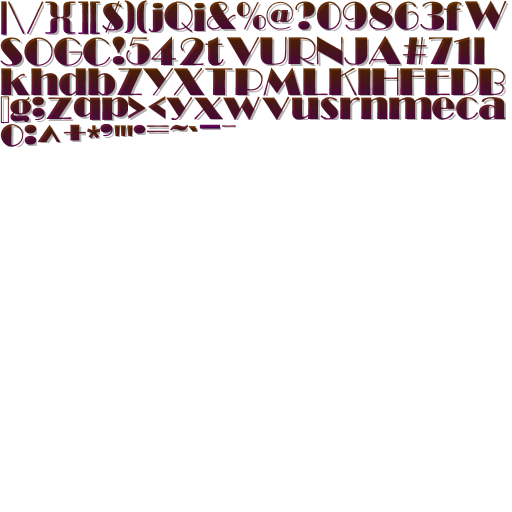
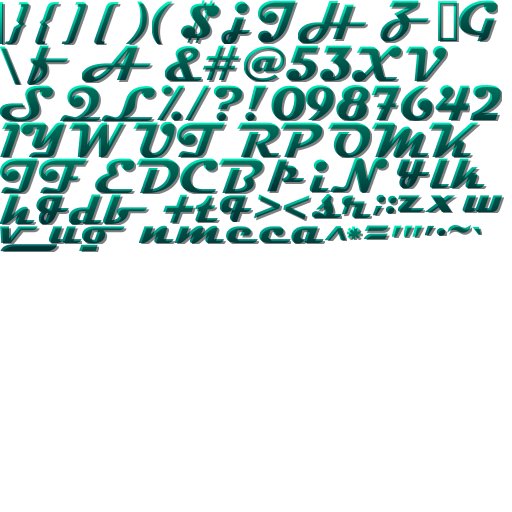
Version 0.0.2 Alpha
Updated GUI

diff --git a/src/com/github/neko250/yonunca/screens/GameScreen.java b/src/com/github/neko250/yonunca/screens/GameScreen.java
@@ -6,11 +6,11 @@ import com.badlogic.gdx.graphics.g2d.*;
 import com.badlogic.gdx.math.*;
 import com.badlogic.gdx.scenes.scene2d.*;
 import com.badlogic.gdx.scenes.scene2d.ui.*;
-import com.badlogic.gdx.scenes.scene2d.ui.Label.LabelStyle;
-import com.badlogic.gdx.scenes.scene2d.ui.TextButton.TextButtonStyle;
+import com.badlogic.gdx.scenes.scene2d.ui.Button.*;
+import com.badlogic.gdx.scenes.scene2d.ui.Label.*;
 import com.badlogic.gdx.utils.*;
 import com.github.neko250.yonunca.*;
-import com.github.neko250.yonunca.soundbanks.SoundBank;
+import com.github.neko250.yonunca.soundbanks.*;
 
 public class GameScreen implements Screen {
 	public YoNunca app;
@@ -23,8 +23,8 @@ public class GameScreen implements Screen {
 	private Stage stage;
 	private TextureAtlas atlas;
 	private BitmapFont buttonsF, titleF, subtitleF;
-	private Label title, subtitle;
-	private TextButton next, replay, back;
+	private Label title, subtitle, nextL, replayL, backL;
+	private Button next, replay, back;
 	private Skin skin;
 	private Image wall;
 	
@@ -38,7 +38,7 @@ public class GameScreen implements Screen {
 		Gdx.gl.glViewport((int) viewPort.getX(), (int) viewPort.getY(),
 				(int) viewPort.getWidth(), (int) viewPort.getHeight());
 		
-		Gdx.gl.glClearColor(0, 0, 0, 1);
+		Gdx.gl.glClearColor(0.1f, 0.1f, 0.1f, 1.0f);
 		Gdx.gl.glClear(GL10.GL_COLOR_BUFFER_BIT);
 		
 		stage.act(delta);
@@ -72,21 +72,23 @@ public class GameScreen implements Screen {
 		atlas = new TextureAtlas(Gdx.files.internal("img/textures.pack"));
 		skin = new Skin();
 		skin.addRegions(atlas);
-		titleF = new BitmapFont(Gdx.files.internal("font/broadway.fnt"), false);
-		subtitleF = new BitmapFont(Gdx.files.internal("font/font.fnt"), false);
+		titleF = new BitmapFont(Gdx.files.internal("font/title.fnt"), false);
+		subtitleF = new BitmapFont(Gdx.files.internal("font/subtitle.fnt"),
+				false);
 		subtitleF.setScale(0.5f);
 		buttonsF = new BitmapFont(Gdx.files.internal("font/buttons.fnt"), false);
 		buttonsF.setScale(0.75f);
 		Gdx.input.setInputProcessor(stage);
 		
-		TextButtonStyle butStyle = new TextButtonStyle();
-		butStyle.up = skin.getDrawable("button_up");
-		butStyle.down = skin.getDrawable("button_down");
-		butStyle.font = buttonsF;
+		ButtonStyle butStyle = new ButtonStyle();
+		butStyle.up = skin.getDrawable("but_up");
+		butStyle.down = skin.getDrawable("but_down");
 		LabelStyle titleLabStyle = new LabelStyle();
 		titleLabStyle.font = titleF;
 		LabelStyle subLabStyle = new LabelStyle();
 		subLabStyle.font = subtitleF;
+		LabelStyle butLabStyle = new LabelStyle();
+		butLabStyle.font = buttonsF;
 		
 		title = new Label(YoNunca.NAME, titleLabStyle);
 		title.setBounds(
@@ -103,9 +105,17 @@ public class GameScreen implements Screen {
 				* 6 / 8 - (subtitleF.getBounds(sub).height / 2) + 20,
 				subtitleF.getBounds(sub).width, subtitleF.getBounds(sub).height);
 		
-		next = new TextButton("Next", butStyle);
-		next.setBounds(viewPort.getWidth() / 2 - (200 / 2),
-				viewPort.getHeight() * 3 / 8 - (40 / 2), 200, 40);
+		nextL = new Label("Next", butLabStyle);
+		nextL.setBounds(viewPort.getWidth() / 2
+				- (buttonsF.getBounds("Next").width / 2) + 50,
+				viewPort.getHeight() / 2
+						- (buttonsF.getBounds("Next").height / 2) + 5,
+				buttonsF.getBounds("Next").width,
+				buttonsF.getBounds("Next").height);
+		
+		next = new Button(butStyle);
+		next.setBounds(viewPort.getWidth() / 4 - (64 / 2), viewPort.getHeight()
+				/ 2 - (64 / 2), 64, 64);
 		next.addListener(new InputListener() {
 			public boolean touchDown(InputEvent event, float x, float y,
 					int pointer, int button) {
@@ -118,9 +128,18 @@ public class GameScreen implements Screen {
 			}
 		});
 		
-		replay = new TextButton("Replay", butStyle);
-		replay.setBounds(viewPort.getWidth() / 2 - (200 / 2),
-				viewPort.getHeight() * 2 / 8 - (40 / 2), 200, 40);
+		replayL = new Label("Replay", butLabStyle);
+		replayL.setBounds(
+				viewPort.getWidth() / 2
+						- (buttonsF.getBounds("Replay").width / 2) + 50,
+				viewPort.getHeight() * 2.5f / 8
+						- (buttonsF.getBounds("Replay").height / 2) + 5,
+				buttonsF.getBounds("Replay").width,
+				buttonsF.getBounds("Replay").height);
+		
+		replay = new Button(butStyle);
+		replay.setBounds(viewPort.getWidth() / 4 - (64 / 2),
+				viewPort.getHeight() * 2.5f / 8 - (64 / 2), 64, 64);
 		replay.addListener(new InputListener() {
 			public boolean touchDown(InputEvent event, float x, float y,
 					int pointer, int button) {
@@ -133,9 +152,17 @@ public class GameScreen implements Screen {
 			}
 		});
 		
-		back = new TextButton("Back", butStyle);
-		back.setBounds(viewPort.getWidth() / 2 - (200 / 2),
-				viewPort.getHeight() * 1 / 8 - (40 / 2), 200, 40);
+		backL = new Label("Back", butLabStyle);
+		backL.setBounds(viewPort.getWidth() / 2
+				- (buttonsF.getBounds("Back").width / 2) + 50,
+				viewPort.getHeight() * 1 / 8
+						- (buttonsF.getBounds("Back").height / 2) + 5,
+				buttonsF.getBounds("Back").width,
+				buttonsF.getBounds("Back").height);
+		
+		back = new Button(butStyle);
+		back.setBounds(viewPort.getWidth() / 4 - (64 / 2), viewPort.getHeight()
+				* 1 / 8 - (64 / 2), 64, 64);
 		back.addListener(new InputListener() {
 			public boolean touchDown(InputEvent event, float x, float y,
 					int pointer, int button) {
@@ -148,15 +175,18 @@ public class GameScreen implements Screen {
 			}
 		});
 		
-		wall = new Image(skin.getDrawable("menu_back"));
+		wall = new Image(skin.getDrawable("wall"));
 		wall.setBounds(0, 0, viewPort.getWidth(), viewPort.getHeight());
 		
 		stage.addActor(wall);
 		stage.addActor(title);
 		stage.addActor(subtitle);
 		stage.addActor(next);
+		stage.addActor(nextL);
 		stage.addActor(replay);
+		stage.addActor(replayL);
 		stage.addActor(back);
+		stage.addActor(backL);
 	}
 	
 	@Override

diff --git a/src/com/github/neko250/yonunca/screens/MainMenuScreen.java b/src/com/github/neko250/yonunca/screens/MainMenuScreen.java
@@ -7,6 +7,7 @@ import com.badlogic.gdx.graphics.g2d.*;
 import com.badlogic.gdx.math.*;
 import com.badlogic.gdx.scenes.scene2d.*;
 import com.badlogic.gdx.scenes.scene2d.ui.*;
+import com.badlogic.gdx.scenes.scene2d.ui.Button.*;
 import com.badlogic.gdx.scenes.scene2d.ui.Label.*;
 import com.badlogic.gdx.scenes.scene2d.ui.TextButton.*;
 import com.badlogic.gdx.utils.*;
@@ -21,8 +22,8 @@ public class MainMenuScreen implements Screen {
 	private TextureAtlas atlas;
 	private Skin skin;
 	private BitmapFont titleF, subtitleF, buttonsF;
-	private TextButton play, quit;
-	private Label title, subtitle;
+	private Button play, quit;
+	private Label title, subtitle, playL, quitL;
 	private Image wall;
 	
 	public MainMenuScreen(YoNunca app, Rectangle viewPort) {
@@ -35,7 +36,7 @@ public class MainMenuScreen implements Screen {
 		Gdx.gl.glViewport((int) viewPort.getX(), (int) viewPort.getY(),
 				(int) viewPort.getWidth(), (int) viewPort.getHeight());
 		
-		Gdx.gl.glClearColor(0, 0, 0, 1);
+		Gdx.gl.glClearColor(0.1f, 0.1f, 0.1f, 1.0f);
 		Gdx.gl.glClear(GL10.GL_COLOR_BUFFER_BIT);
 		
 		stage.act(delta);
@@ -67,21 +68,23 @@ public class MainMenuScreen implements Screen {
 		atlas = new TextureAtlas(Gdx.files.internal("img/textures.pack"));
 		skin = new Skin();
 		skin.addRegions(atlas);
-		titleF = new BitmapFont(Gdx.files.internal("font/broadway.fnt"), false);
-		subtitleF = new BitmapFont(Gdx.files.internal("font/font.fnt"), false);
+		titleF = new BitmapFont(Gdx.files.internal("font/title.fnt"), false);
+		subtitleF = new BitmapFont(Gdx.files.internal("font/subtitle.fnt"),
+				false);
 		subtitleF.setScale(0.5f);
 		buttonsF = new BitmapFont(Gdx.files.internal("font/buttons.fnt"), false);
 		buttonsF.setScale(0.75f);
 		Gdx.input.setInputProcessor(stage);
 		
-		TextButtonStyle butStyle = new TextButtonStyle();
-		butStyle.up = skin.getDrawable("button_up");
-		butStyle.down = skin.getDrawable("button_down");
-		butStyle.font = buttonsF;
+		ButtonStyle butStyle = new TextButtonStyle();
+		butStyle.up = skin.getDrawable("but_up");
+		butStyle.down = skin.getDrawable("but_down");
 		LabelStyle titleLabStyle = new LabelStyle();
 		titleLabStyle.font = titleF;
 		LabelStyle subLabStyle = new LabelStyle();
 		subLabStyle.font = subtitleF;
+		LabelStyle butLabStyle = new LabelStyle();
+		butLabStyle.font = buttonsF;
 		
 		title = new Label(YoNunca.NAME, titleLabStyle);
 		title.setBounds(
@@ -98,9 +101,17 @@ public class MainMenuScreen implements Screen {
 				* 6 / 8 - (subtitleF.getBounds(sub).height / 2) + 20,
 				subtitleF.getBounds(sub).width, subtitleF.getBounds(sub).height);
 		
-		play = new TextButton("Start !", butStyle);
-		play.setBounds(viewPort.getWidth() / 2 - (200 / 2),
-				viewPort.getHeight() / 2 - (40 / 2) - 110, 200, 40);
+		playL = new Label("Play !", butLabStyle);
+		playL.setBounds(viewPort.getWidth() / 2
+				- (buttonsF.getBounds("Play !").width / 2) + 45,
+				viewPort.getHeight() / 2
+						- (buttonsF.getBounds("Play !").height / 2) - 45,
+				buttonsF.getBounds("Play !").width,
+				buttonsF.getBounds("Play !").height);
+		
+		play = new Button(butStyle);
+		play.setBounds(viewPort.getWidth() / 4 - (64 / 2), viewPort.getHeight()
+				/ 2 - (64 / 2) - 50, 64, 64);
 		play.addListener(new InputListener() {
 			public boolean touchDown(InputEvent event, float x, float y,
 					int pointer, int button) {
@@ -113,9 +124,17 @@ public class MainMenuScreen implements Screen {
 			}
 		});
 		
-		quit = new TextButton("Quit", butStyle);
-		quit.setBounds(viewPort.getWidth() / 2 - (200 / 2),
-				viewPort.getHeight() / 4 - (40 / 2) - 50, 200, 40);
+		quitL = new Label("Quit", butLabStyle);
+		quitL.setBounds(viewPort.getWidth() / 2
+				- (buttonsF.getBounds("Quit").width / 2) + 35,
+				viewPort.getHeight() / 4
+						- (buttonsF.getBounds("Quit").height / 2) + 5,
+				buttonsF.getBounds("Quit").width,
+				buttonsF.getBounds("Quit").height);
+		
+		quit = new Button(butStyle);
+		quit.setBounds(viewPort.getWidth() / 4 - (64 / 2), viewPort.getHeight()
+				/ 4 - (64 / 2), 64, 64);
 		quit.addListener(new InputListener() {
 			public boolean touchDown(InputEvent event, float x, float y,
 					int pointer, int button) {
@@ -128,14 +147,16 @@ public class MainMenuScreen implements Screen {
 			}
 		});
 		
-		wall = new Image(skin.getDrawable("menu_back"));
+		wall = new Image(skin.getDrawable("wall"));
 		wall.setBounds(0, 0, viewPort.getWidth(), viewPort.getHeight());
 		
 		stage.addActor(wall);
 		stage.addActor(title);
 		stage.addActor(subtitle);
 		stage.addActor(play);
+		stage.addActor(playL);
 		stage.addActor(quit);
+		stage.addActor(quitL);
 	}
 	
 	@Override

diff --git a/src/com/github/neko250/yonunca/YoNunca.java b/src/com/github/neko250/yonunca/YoNunca.java
@@ -6,7 +6,7 @@ import com.badlogic.gdx.*;
 import com.badlogic.gdx.math.*;
 
 public class YoNunca extends Game {
-	public static final String VERSION = "0.0.1 Alpha";
+	public static final String VERSION = "0.0.2 Alpha";
 	public static final String LOG = "Yo Nunca";
 	public static final String NAME = "Yo Nunca";
 	
@@ -18,7 +18,7 @@ public class YoNunca extends Game {
 	public void create() {
 		sb = new SoundBank();
 		viewPort = new Rectangle(0, 0, 320, 480);
-		this.setScreen(new SplashScreen(this, viewPort));
+		this.setScreen(new MainMenuScreen(this, viewPort));
 	}
 	
 	@Override

diff --git a/src/com/github/neko250/yonunca/Main.java b/src/com/github/neko250/yonunca/Main.java
@@ -8,8 +8,8 @@ public class Main {
 		LwjglApplicationConfiguration cfg = new LwjglApplicationConfiguration();
 		cfg.title = "Yo Nunca";
 		cfg.useGL20 = true;
-		cfg.fullscreen = true;
-		cfg.width = 640;
+		cfg.fullscreen = false;
+		cfg.width = 320;
 		cfg.height = 480;
 		cfg.x = -1;
 		cfg.y = -1;
